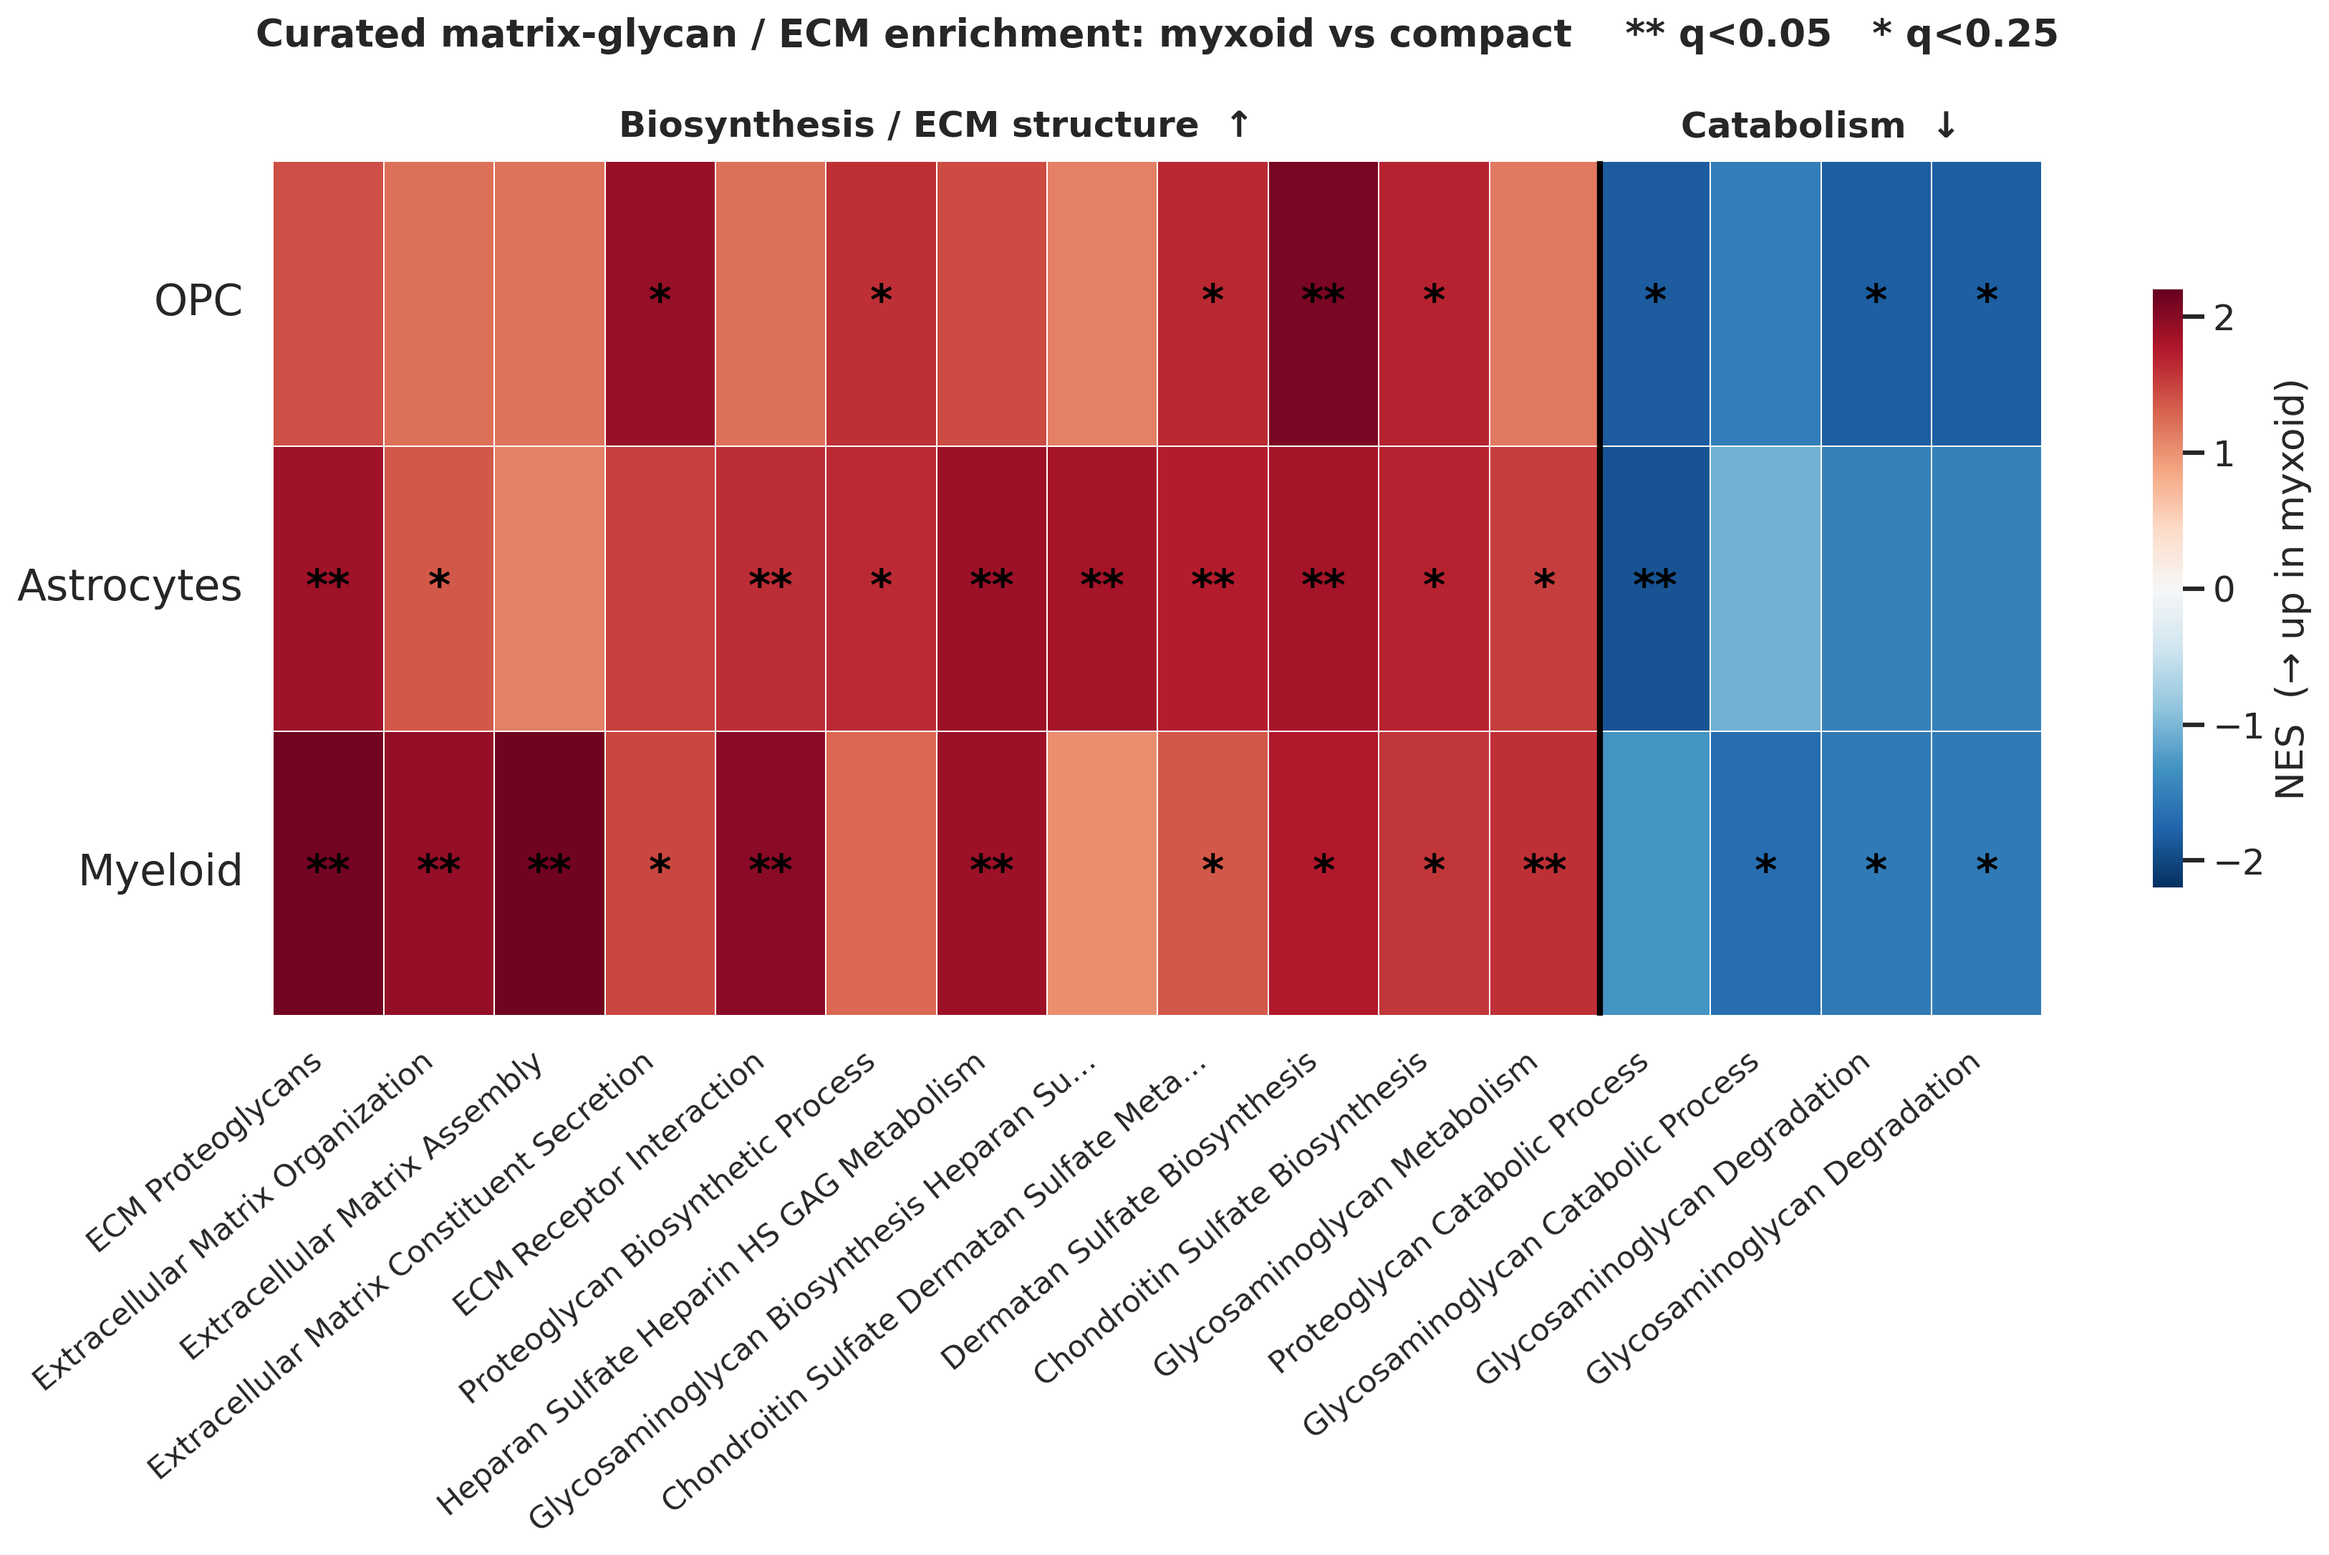
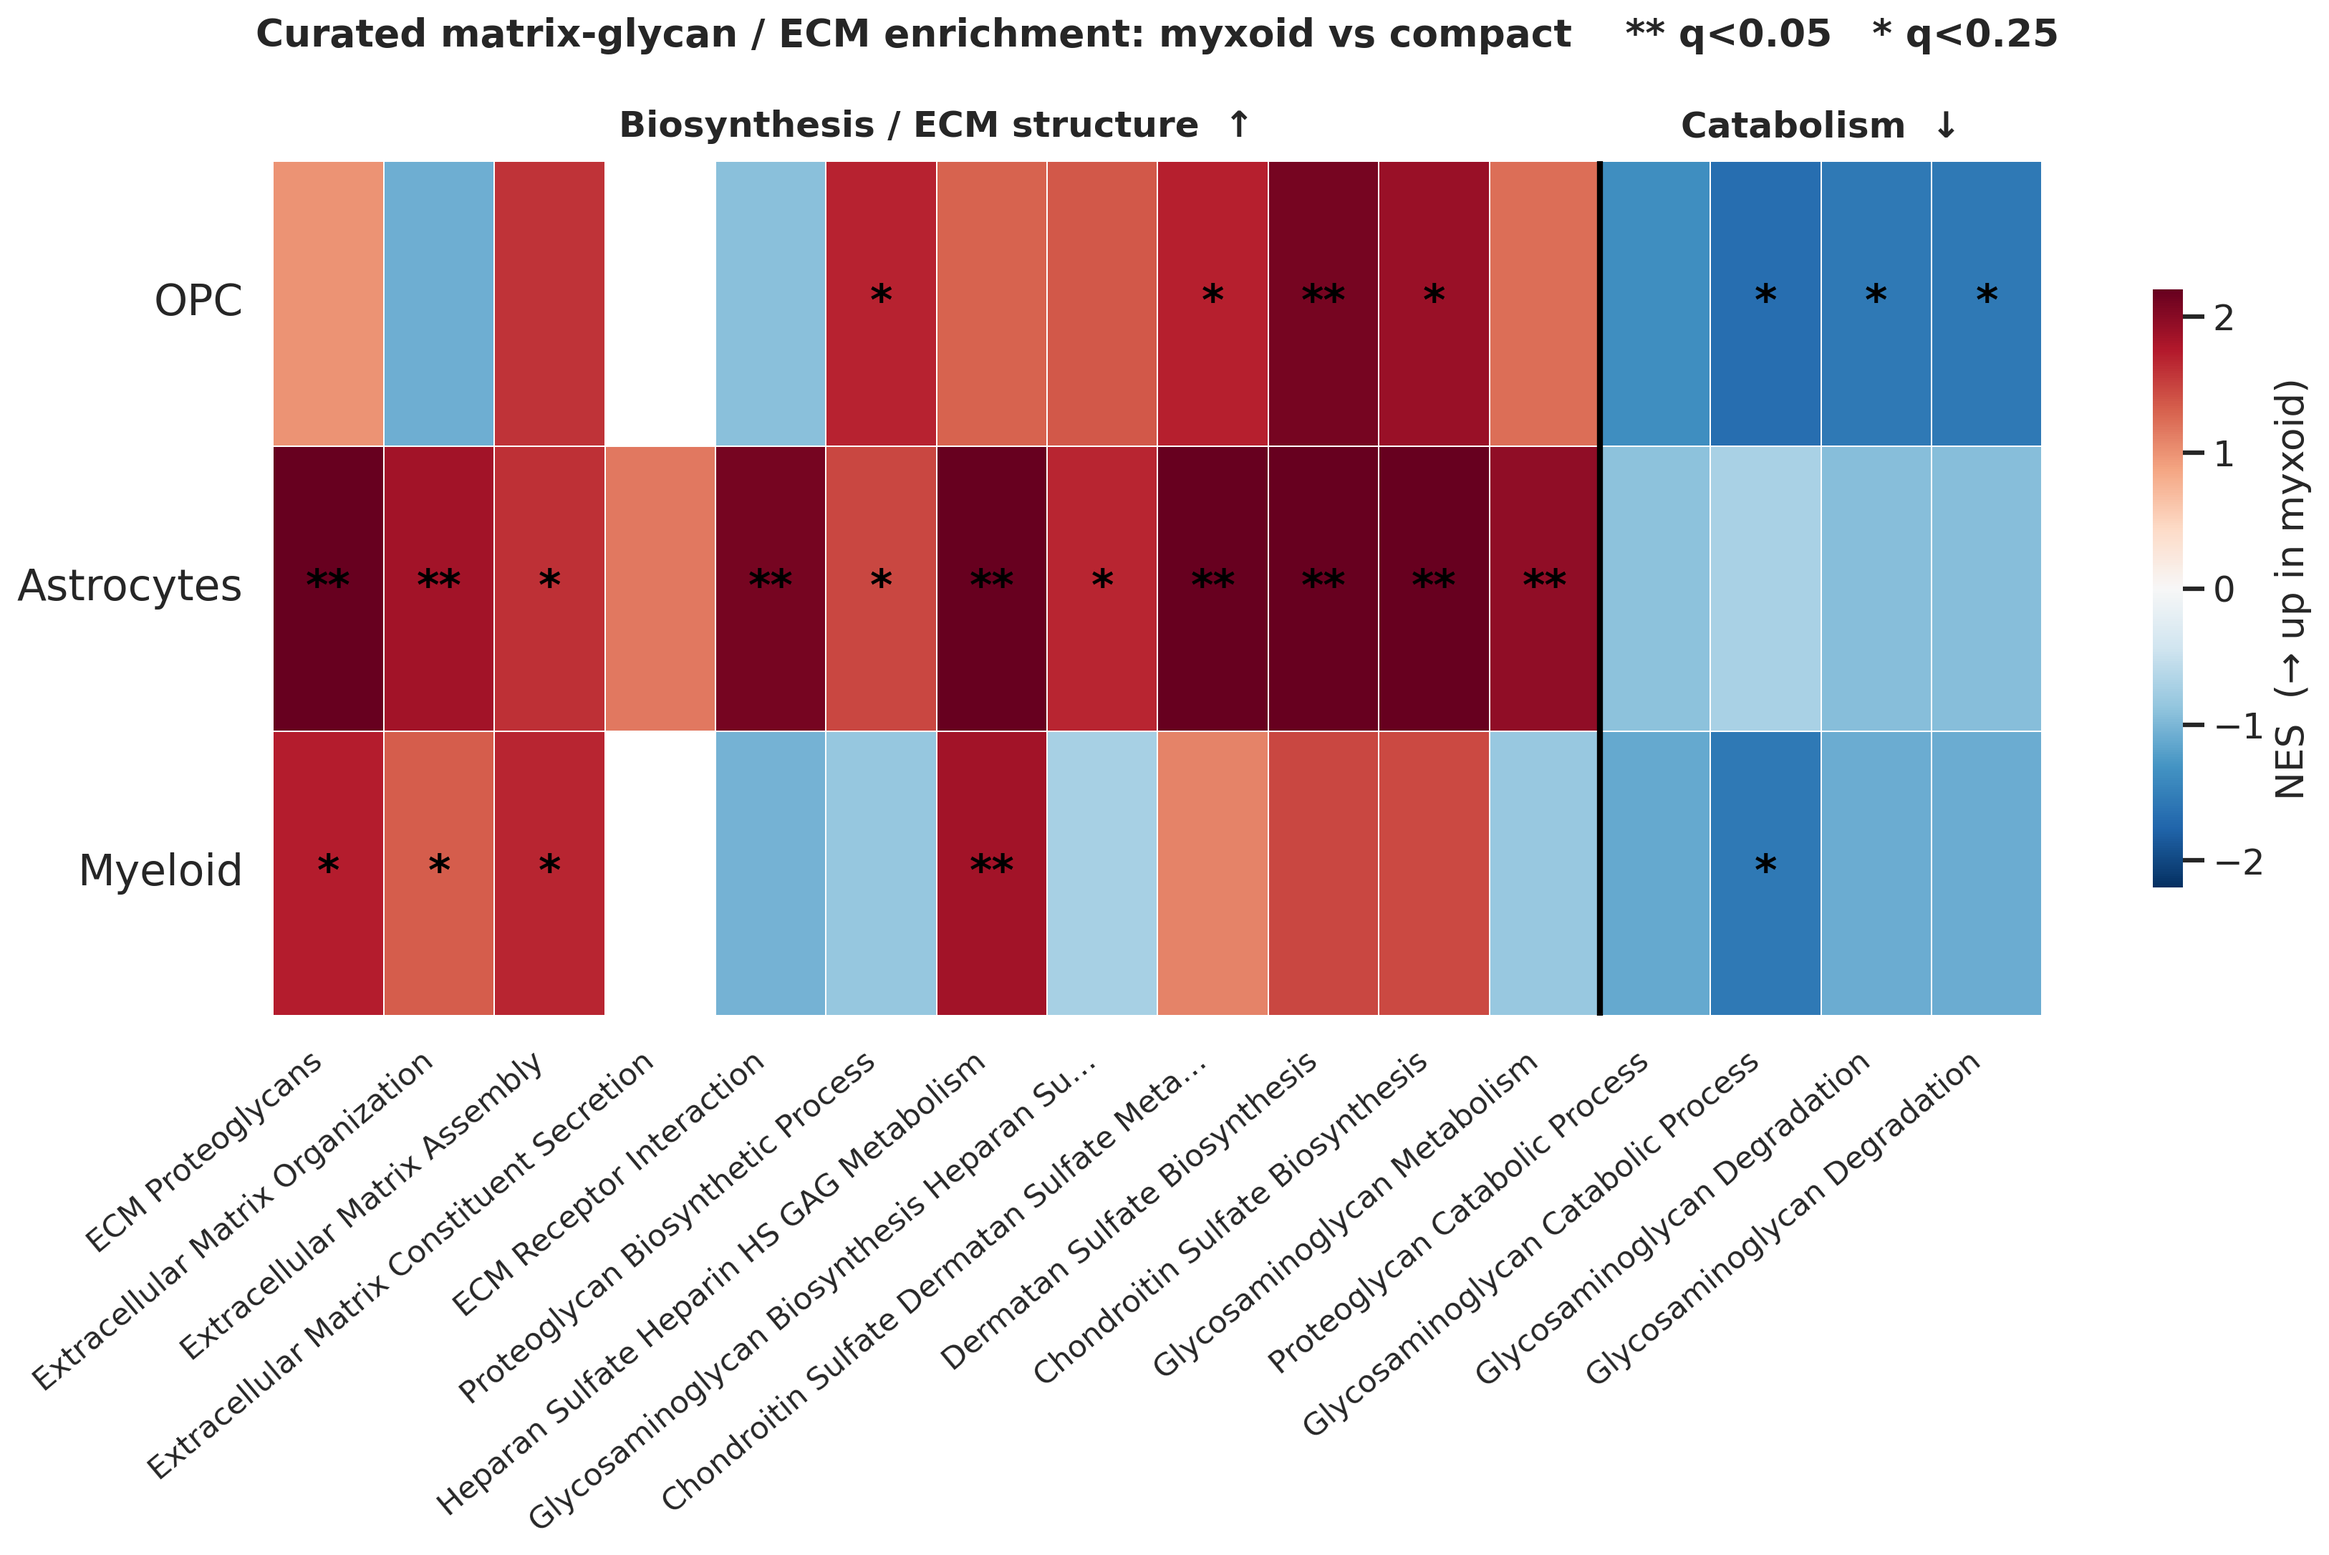
presentation: glycan slide on the nucleus labels; rebuild the deck
Slide 18 uses the curated glycan/ECM heatmap from the new 4_PA_morphology_state render
and says the state is clearest in astrocytes (12/12 synthesis sets up, 8 at q < 0.05,
all 3 patients) while OPC and myeloid are weak (1 set each). Deck rebuilt with
pptxgenjs 4.0.1 (also picks up the SVS vessel inset); only slides 15 and 18 change,
apart from the random decorative dots on slides 1 and 20.

Claude-Session: https://claude.ai/code/session_01QYgdP7qgA9eDAYhwDfMwEM

diff --git a/presentation/build_deck.js b/presentation/build_deck.js
@@ -352,11 +352,14 @@ function cStalign(s,ax,ay,aw,ah){
 })();
 
 // ============================================================ 18. Q3 — result: glycan-ECM state
-(()=>{const s=pres.addSlide(); head(s,"Q3 · does state shape morphology?","Myxoid morphology carries a glycan-ECM state");
-  // ~1.5:1 heatmap enlarged on the left; one concise point in a narrow right column
+// Figure: curated-set heatmap from 4_PA_morphology_state.html on the nucleus STAlign labels (2026-10-19).
+// Astrocytes carry the signal (12/12 synthesis sets up, 8 at q<0.05); OPC and myeloid only 1 set each at q<0.05.
+(()=>{const s=pres.addSlide(); head(s,"Q3 · does state shape morphology?","Myxoid morphology carries an astrocyte glycan-ECM state");
+  // ~1.5:1 heatmap enlarged on the left; two concise points in a narrow right column
   imgFit(s,"fig_glycan_ecm.png",3252,2171,0.3,1.75,7.9,5.3);
   bullets(s,[
-    "Across OPC, astrocytes, and myeloid, myxoid regions turn up GAG / proteoglycan synthesis and down its breakdown — a coordinated matrix-accumulation state.",
+    "Astrocytes in myxoid regions turn up GAG / proteoglycan synthesis and ECM structure: all 12 curated sets up, 8 at q < 0.05, in all 3 patients.",
+    "OPC and myeloid lean the same way, but weakly (1 set each at q < 0.05).",
   ],8.45,3.1,4.35,3.0,17);
   foot(s);
 })();

diff --git a/annotations/STalign/nucleus_rerun/README.md b/annotations/STalign/nucleus_rerun/README.md
@@ -190,9 +190,10 @@ to the new labels. The old outputs were copied first to `NEW_DIR/qc/pa_enrichmen
   - **Niche dictionary:** cell-type columns and `niche_celltype_composition.tsv` are byte-identical. In
     `top_pathology`, niche 1 loses "Lipidized cells", niche 10 gains "Neuropil zone", niche 4 Neuropil logOR
     0.9 → 1.8; niches 9 and 12 keep Blood.
-- **Deck:** `fig_niche_pa_morphology.png` and `fig_glycan_ecm.png` still show the old results; regenerate them
-  from the new renders once the slide text is settled (talk_script L193 for the niche null, L210 for the glycan
-  claim).
+- **Deck (2026-10-19):** the glycan slide now uses the new heatmap (`fig_glycan_ecm.png` = figure 2 of the new
+  `4_PA_morphology_state.html`, via `presentation/src/extract_figs.py`) and says the state is clearest in astrocytes;
+  the vessel slide uses the SVS overlay; `plgg_xenium_deck.pptx` rebuilt with pptxgenjs 4.0.1. Not changed yet, by
+  choice: `fig_niche_pa_morphology.png` and `talk_script.md` (L186–193 registration and niche null, L210 glycan).
 
 ### All commands (production outputs, figures, diagnostics)
 
